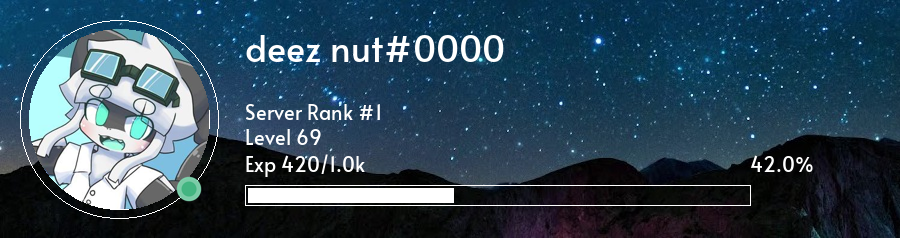
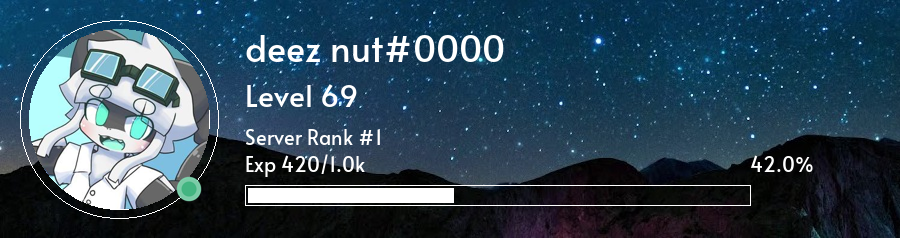
help

Changed region(s): [[0.2489, 0.3529, 0.4356, 0.5], [0.2489, 0.5294, 0.4356, 0.6176]]

diff --git a/src/checks.py b/src/checks.py
@@ -15,33 +15,43 @@ class Checks(commands.Cog):
     async def check_guilds(self):
         await self.bot.wait_until_ready()
         for guild in self.bot.guilds:
-            guild_sql = await sqls.execute(
+            guild_sql = await self.db.fetch(
                 "SELECT * FROM guild WHERE guild_id = $1", guild.id
             )
+            guild_sql = guild_sql if not guild_sql == "SELECT 0" else None
             if not guild_sql:
-                await sqls.execute(
+                await self.db.execute(
                     """
                     INSERT INTO guild(guild_id) VALUES ($1);
+                    """,
+                    guild.id,
+                )
+                await self.db.execute(
+                    """
                     INSERT INTO levels_background(guild_id, background) VALUES ($1, $2);
-                    INSERT INTO font_colors(guild_id, color) VALUES ($1, $3);
                     """,
                     guild.id,
                     None,
+                )
+                await self.db.execute(
+                    "INSERT INTO font_colors(guild_id, color) VALUES ($1, $2);",
+                    guild.id,
                     "255,255,255",
                 )
+
             else:
-                if not await sqls.execute(
+                if not await self.db.fetch(
                     "SELECT * FROM levels_background WHERE guild_id = $1", guild.id
                 ):
-                    await sqls.execute(
+                    await self.db.execute(
                         "INSERT INTO levels_background(guild_id, background) VALUES ($1, $2)",
                         guild.id,
                         None,
                     )
-                if not await sqls.execute(
+                if not await self.db.fetch(
                     "SELECT * FROM font_colors WHERE guild_id = $1", guild.id
                 ):
-                    await sqls.execute(
+                    await self.db.execute(
                         "INSERT INTO font_colors(guild_id, color) VALUES ($1, $2)",
                         guild.id,
                         "255,255,255",
@@ -52,17 +62,19 @@ class Checks(commands.Cog):
         for member in self.bot.get_all_members():
             if member.bot:
                 continue
-            user_sql = await sqls.execute(
-                "SELECT * FROM user_ WHERE user_id = $1", member.id
+            user_sql = await self.db.fetch(
+                "SELECT * FROM user_ WHERE user_id = $1 AND guild_id = $2",
+                member.id,
+                member.guild.id,
             )
             if not user_sql:
-                await sqls.execute(
+                await self.db.execute(
                     """
-                    INSERT INTO user_(user_id, experience, max_experience, level_, guild_id) VALUES ($1, $2, $3, $4);
+                    INSERT INTO user_(user_id, experience, max_experience, current_level, guild_id) VALUES ($1, $2, $3, $4, $5);
                     """,
                     member.id,
-                    0,
-                    0,
+                    1,
+                    100,
                     1,
                     member.guild.id,
                 )
@@ -71,7 +83,7 @@ class Checks(commands.Cog):
     async def on_member_join(self, member: discord.Member):
         if member.bot:
             return
-        await sqls.execute(
+        await self.db.execute(
             """
             INSERT INTO user_(user_id, experience, max_experience, level_, guild_id) VALUES ($1, $2, $3, $4);
             """,
@@ -86,7 +98,7 @@ class Checks(commands.Cog):
     async def on_member_remove(self, member: discord.Member):
         if member.bot:
             return
-        await sqls.execute(
+        await self.db.execute(
             "DELETE FROM user_ WHERE user_id = $1 AND guild_id = $2",
             member.id,
             member.guild.id,
@@ -94,24 +106,32 @@ class Checks(commands.Cog):
 
     @commands.Cog.listener()
     async def on_guild_join(self, guild: discord.Guild):
-        await sqls.execute(
+        await self.db.execute(
             """
-            INSERT INTO guild(guild_id) VALUES ($1);
+                    INSERT INTO guild(guild_id) VALUES ($1);
+                    """,
+            guild.id,
+        )
+        await self.db.execute(
+            """
             INSERT INTO levels_background(guild_id, background) VALUES ($1, $2);
-            INSERT INTO font_colors(guild_id, color) VALUES ($1, $3);
             """,
             guild.id,
             None,
-            "255,255,255",
+        )
+        await self.db.execute(
+            "INSERT INTO font_colors(guild_id, color) VALUES ($1, $2);",
+            guild.id,
+            (255, 255, 255),
         )
 
     @commands.Cog.listener()
     async def on_guild_remove(self, guild: discord.Guild):
-        await sqls.execute("DELETE FROM guild WHERE guild_id = $1", guild.id)
-        await sqls.execute(
+        await self.db.execute("DELETE FROM guild WHERE guild_id = $1", guild.id)
+        await self.db.execute(
             "DELETE FROM levels_background WHERE guild_id = $1", guild.id
         )
-        await sqls.execute("DELETE FROM font_colors WHERE guild_id = $1", guild.id)
+        await self.db.execute("DELETE FROM font_colors WHERE guild_id = $1", guild.id)
 
 
 async def setup(bot: commands.Bot):

diff --git a/src/levelling.py b/src/levelling.py
@@ -6,13 +6,13 @@ from .utils import pre_made_sqls as sqls
 from .utils import imagegen
 import bot as bot_
 import random
+import yarl
 
 
 class Levelling(commands.Cog):
     def __init__(self, bot: commands.Bot):
         self.bot = bot
         self.db: bot_.EasySQL = self.bot.db
-        self.bot.loop.create_task(sqls.set_database(self.db))
 
     @commands.hybrid_group()
     async def level(self, ctx: commands.Context, member: discord.Member = None):
@@ -37,48 +37,64 @@ class Levelling(commands.Cog):
                     color=discord.Color.red(),
                 )
             )
+        try:
+            avatar = str(member.guild_avatar.url)
+        except AttributeError:
+            avatar = str(member.avatar.url)
+
         level = (
-            await sqls.execute("SELECT * FROM user_ WHERE user_id = $1", member.id)
+            await self.db.fetch(
+                "SELECT * FROM user_ WHERE user_id = $1 AND guild_id = $2",
+                member.id,
+                member.guild.id,
+            )
         )[0]
         try:
             bg_path = (
-                await sqls.execute(
-                    "SELECT background FROM levels_background WHERE guild_id",
-                    ctx.guild.id,
+                await self.db.fetch(
+                    "SELECT background FROM levels_background WHERE guild_id = $1",
+                    member.guild.id,
                 )
             )[0]["background"]
         except IndexError:
             bg_path = None
-        users = await sqls.execute("SELECT * FROM user_")
+        users = await self.db.fetch(
+            "SELECT * FROM user_ WHERE guild_id = $1", member.guild.id
+        )
+        print(type(users))
         users = sorted(users, key=lambda x: x["experience"], reverse=True)
         position = users.index(level) + 1
         xp = level["experience"]
         max_xp = level["max_experience"]
+        color = tuple(
+            int(x)
+            for x in (
+                await self.db.fetch(
+                    "SELECT color FROM font_colors WHERE guild_id = $1",
+                    ctx.guild.id,
+                )
+            )[0]["color"].split(",")
+        )
+        await ctx.send(color)
         return await ctx.send(
             file=await imagegen.generate_profile(
                 bg_path,
-                member.avatar_url,
+                avatar,
                 level["current_level"],
                 xp,
                 max_xp,
                 position,
                 str(member),
                 str(member.status),
-                tuple(
-                    (
-                        await sqls.execute(
-                            "SELECT color FROM font_colors WHERE guild_id = $1",
-                            ctx.guild.id,
-                        )
-                    )[0]["color"].split(",")
-                ),
+                color,
             )
         )
 
     # TODO: make a on_message event that listen and keep track of the member's message then increase the exp
     @commands.Cog.listener()
     async def on_message(self, message: discord.Message):
-        await sqls.execute("UPDATE user_")
+        # await self.db.execute("UPDATE user_")
+        pass
 
 
 async def setup(bot: commands.Bot):

diff --git a/src/config_.py b/src/config_.py
@@ -46,26 +46,6 @@ class Configure(commands.Cog):
             await ctx.send_help()
 
     @config.command()
-    async def starboard_channel(
-        self, ctx: commands.Context, channel: discord.TextChannel
-    ):
-        """
-        Set the channel for the starboard.
-        """
-        await sqls.execute(
-            "UPDATE guild SET starboard_channel_id = $1 WHERE guild_id = $2",
-            channel.id,
-            ctx.guild.id,
-        )
-        await ctx.send(
-            embed=discord.Embed(
-                title="Success!",
-                description="Starboard channel set to {}".format(channel.mention),
-                color=discord.Color.green(),
-            )
-        )
-
-    @config.command()
     async def add_roles_level(
         self, ctx: commands.Context, level: int, role: discord.Role
     ):
@@ -73,7 +53,7 @@ class Configure(commands.Cog):
         Add a role to the list of roles that can be assigned to a user based on their level.
         """
         await sqls.execute(
-            "INSERT INTO roles_levels (guild_id, level, role_id) VALUES ($1, $2, $3)",
+            "INSERT INTO roles_level (guild_id, level, role_id) VALUES ($1, $2, $3)",
             ctx.guild.id,
             level,
             role.id,

diff --git a/src/utils/imagegen.py b/src/utils/imagegen.py
@@ -93,7 +93,7 @@ class Generator:
         # ======== Fonts to use =============
         font_normal = ImageFont.truetype(self.font1, 36)
         font_small = ImageFont.truetype(self.font1, 20)
-
+        level_font = ImageFont.truetype(self.font1, 30)
         # ======== Colors ========================
 
         def get_str(xp):
@@ -107,12 +107,12 @@ class Generator:
         draw = ImageDraw.Draw(card)
         draw.text((245, 22), user_name, font_color, font=font_normal)
         draw.text(
-            (245, 98),
+            (245, 123),
             f"Server Rank #{server_position}",
             font_color,
             font=font_small,
         )
-        draw.text((245, 123), f"Level {level}", font_color, font=font_small)
+        draw.text((245, 74), f"Level {level}", font_color, font=level_font)
         draw.text(
             (245, 150),
             f"Exp {get_str(user_xp)}/{get_str(next_xp)}",

diff --git a/src/event.py b/src/event.py
@@ -7,6 +7,7 @@ import discord
 from discord.ext import commands
 from discord.utils import MISSING
 import logging
+import copy
 
 
 class Events(commands.Cog):
@@ -20,6 +21,7 @@ class Events(commands.Cog):
         error_message = "".join(
             traceback.format_exception(type(error), error, error.__traceback__)
         )
+        j = copy.copy(error_message)
         discord_version = discord.__version__
         file = MISSING
         if len(error_message) <= 4096:
@@ -104,7 +106,7 @@ class Events(commands.Cog):
                 ),
                 file=file,
             )
-            traceback.print_exc()
+            self.bot.log.error(j)
 
 
 async def setup(bot: commands.Bot):
